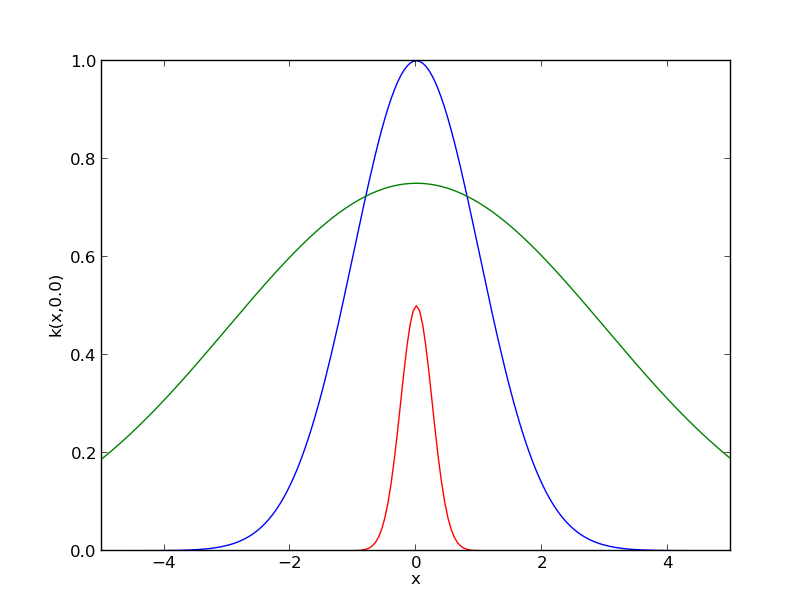
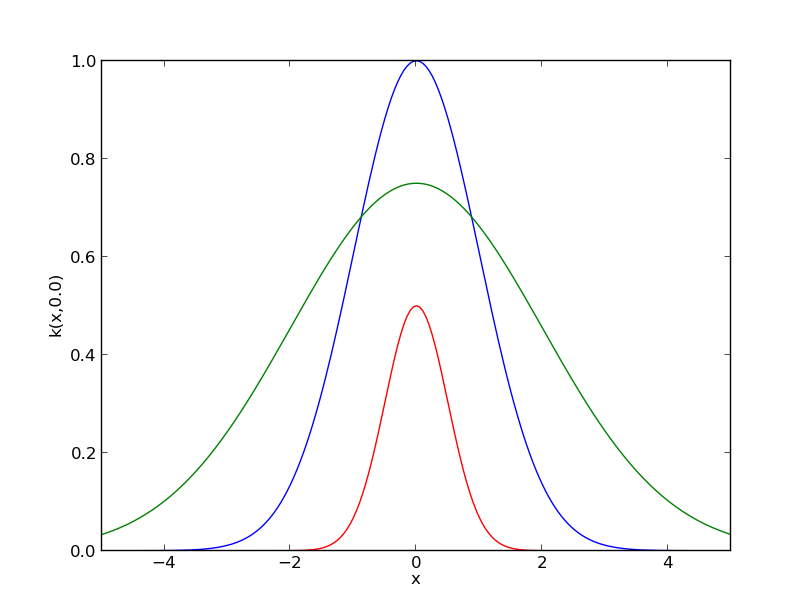
Tutorial update due to some changes in GPy

diff --git a/doc/tuto_kernel_overview.rst b/doc/tuto_kernel_overview.rst
@@ -13,16 +13,24 @@ First we import the libraries we will need ::
 For most kernels, the dimension is the only mandatory parameter to define a kernel object. However, it is also possible to specify the values of the parameters. For example, the three following commands are valid for defining a squared exponential kernel (ie rbf or Gaussian) ::
 
     ker1 = GPy.kern.rbf(1)  # Equivalent to ker1 = GPy.kern.rbf(D=1, variance=1., lengthscale=1.)
-    ker2 = GPy.kern.rbf(D=1, variance = 1.5, lengthscale=2.)
+    ker2 = GPy.kern.rbf(D=1, variance = .75, lengthscale=2.)
     ker3 = GPy.kern.rbf(1, .5, .5)
 
-A `plot` and a `print` functions are implemented to represent kernel objects ::
+A ``print`` and a ``plot`` functions are implemented to represent kernel objects. The commands ::
     
-    print ker1
+    print ker2
 
     ker1.plot()
     ker2.plot()
     ker3.plot()
+
+should return::
+
+           Name        |  Value   |  Constraints  |  Ties  
+    -------------------------------------------------------
+       rbf_variance    |  1.0000  |               |        
+      rbf_lengthscale  |  1.0000  |               |        
+
 
 .. figure::  Figures/tuto_kern_overview_basicdef.png
     :align:   center

diff --git a/doc/GPy.kern.rst b/doc/GPy.kern.rst
@@ -113,6 +113,14 @@ kern Package
     :undoc-members:
     :show-inheritance:
 
+:mod:`product` Module
+---------------------
+
+.. automodule:: GPy.kern.product
+    :members:
+    :undoc-members:
+    :show-inheritance:
+
 :mod:`product_orthogonal` Module
 --------------------------------
 

diff --git a/doc/GPy.inference.rst b/doc/GPy.inference.rst
@@ -1,6 +1,14 @@
 inference Package
 =================
 
+:mod:`SGD` Module
+-----------------
+
+.. automodule:: GPy.inference.SGD
+    :members:
+    :undoc-members:
+    :show-inheritance:
+
 :mod:`optimization` Module
 --------------------------
 
